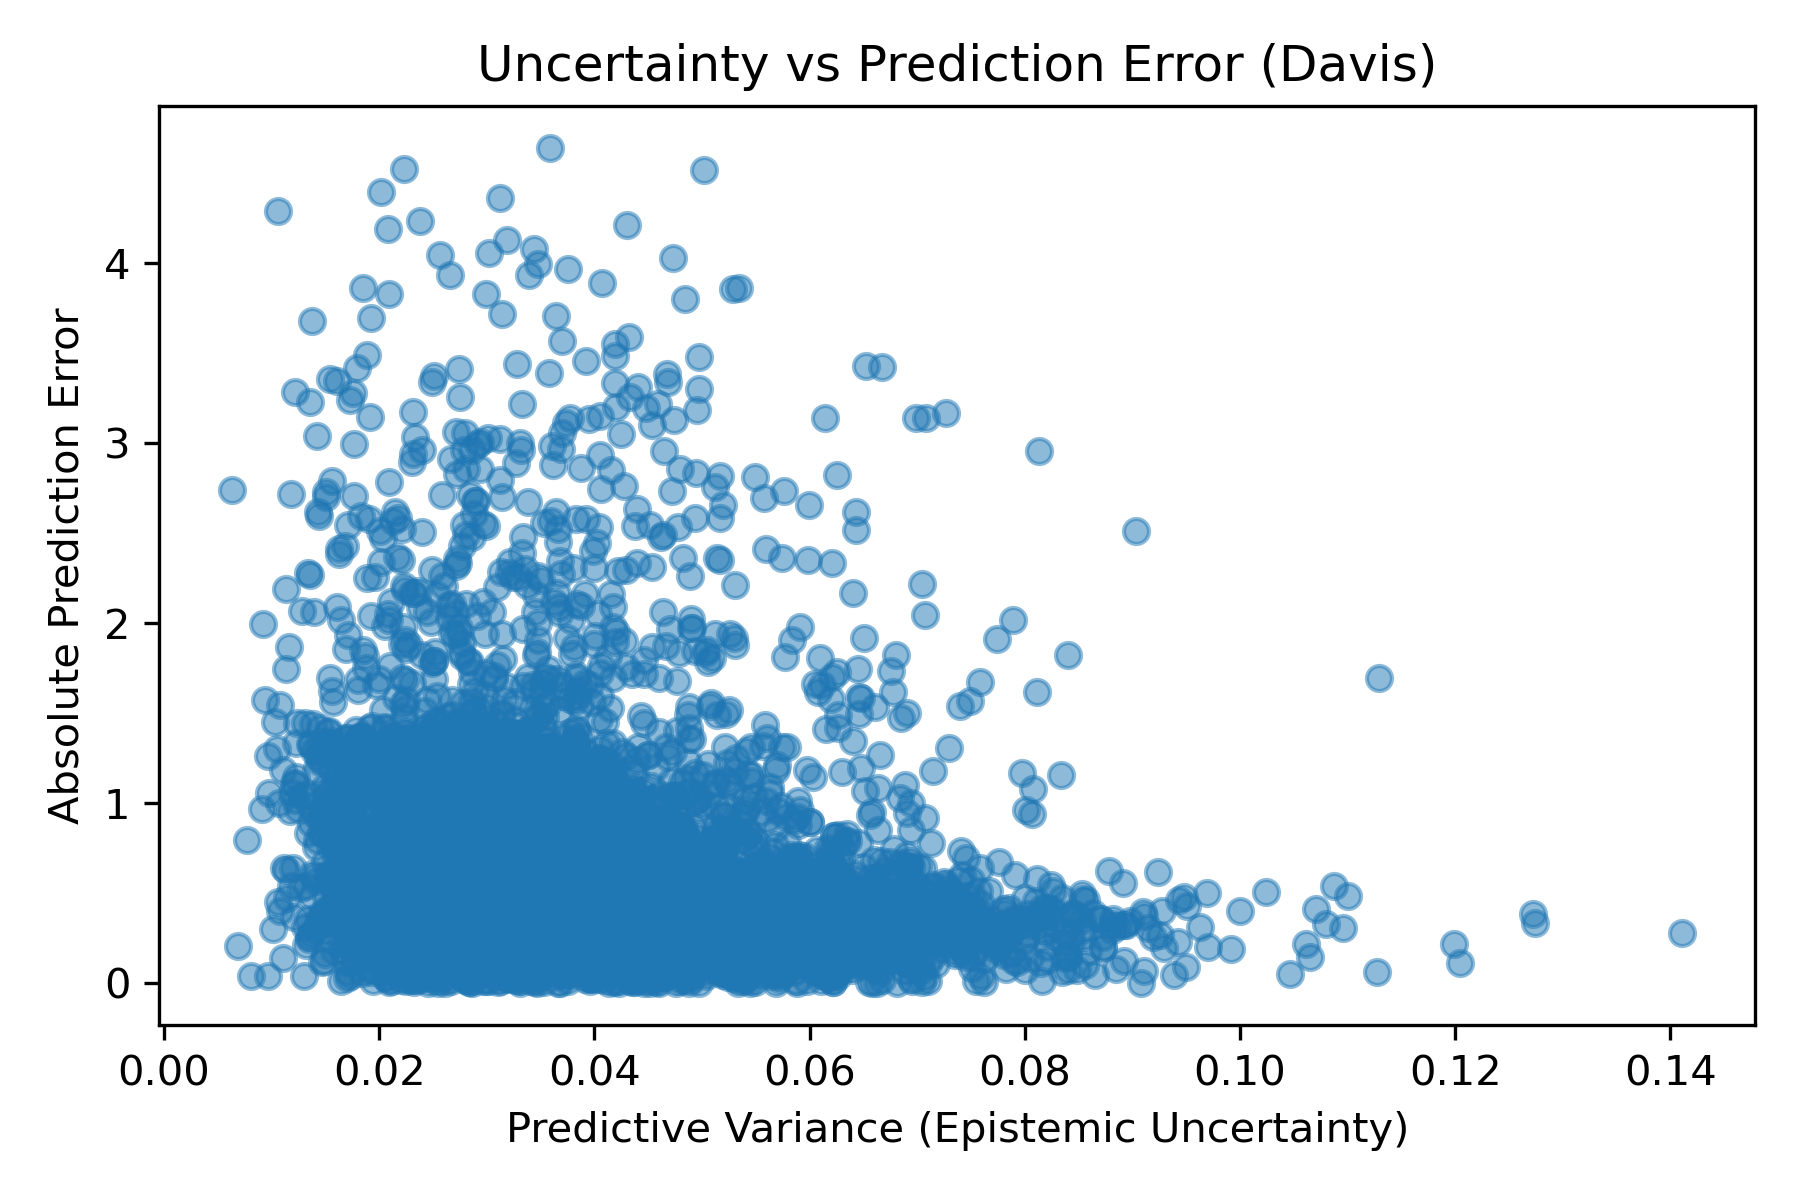
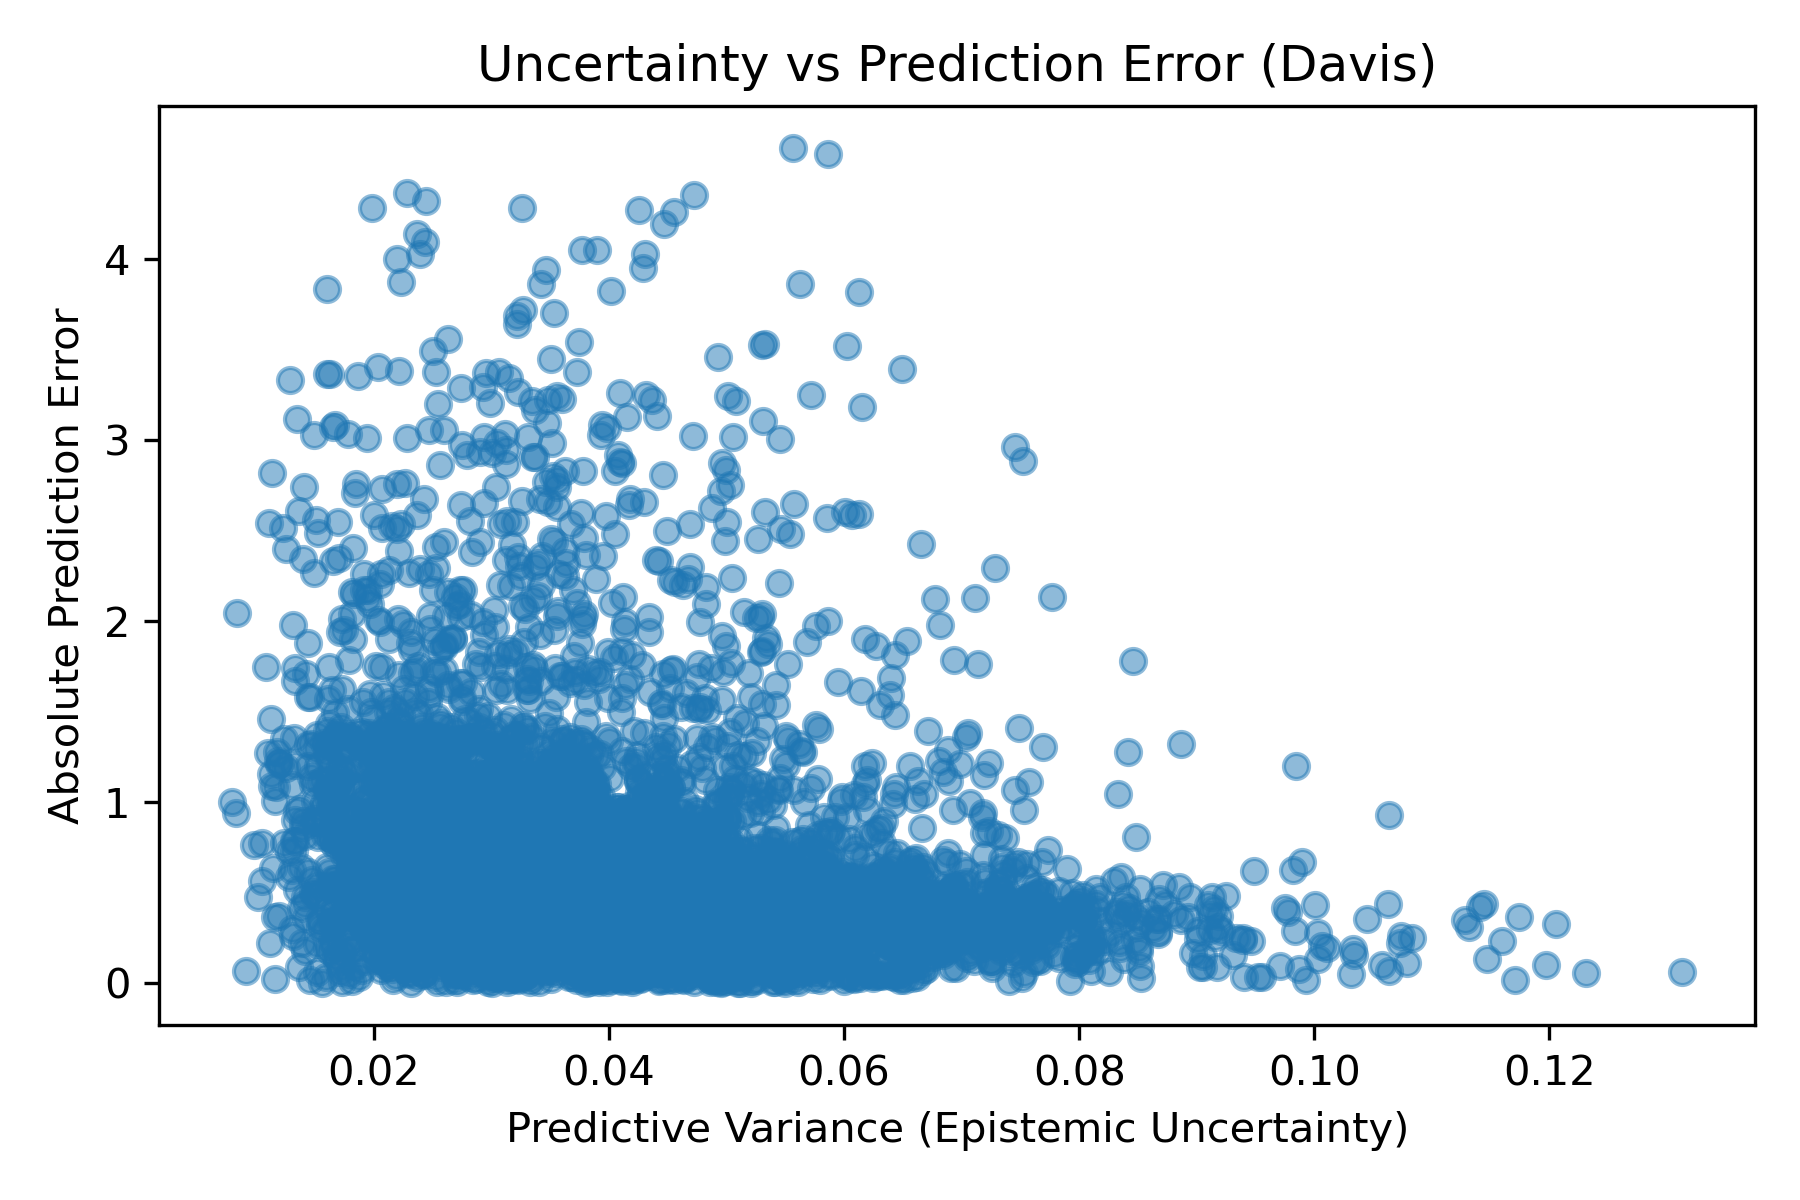
Added uncertainty analysis showing strong miscalibration (ECE, correlation)

diff --git a/experiments/test_uncertainty_mc_dropout.py b/experiments/test_uncertainty_mc_dropout.py
@@ -13,7 +13,7 @@ from src.data.cold_splits import cold_target_split
 from src.data.simple_features import build_simple_features
 from src.data.gnn_dataset import build_gnn_dataset
 from src.training.dti_gnn_model import DTIGNN
-from src.utils.metrics import rmse
+from src.utils.metrics import rmse, expected_calibration_error
 
 
 def mc_dropout_predictions(model, loader, T=20):
@@ -21,7 +21,7 @@ def mc_dropout_predictions(model, loader, T=20):
     Perform MC Dropout inference
     """
 
-    model.train()  # 🔥 enable dropout
+    model.train()  # enable dropout
 
     all_means = []
     all_vars = []
@@ -51,43 +51,40 @@ def mc_dropout_predictions(model, loader, T=20):
 def main():
 
     print("Loading Davis dataset...")
-
     drugs, proteins, affinities = load_davis("data/raw/davis")
 
     interactions = build_interaction_table(drugs, proteins, affinities)
 
-    # ✅ IMPORTANT: same split as training
+    # Same split as training
     train_df, val_df, test_df = cold_target_split(interactions)
 
     print("Building features...")
-
-    # IMPORTANT: use FULL interactions (not subset)
     _, protein_feats = build_simple_features(interactions, drugs, proteins)
 
     test_data = build_gnn_dataset(test_df, drugs, protein_feats)
     test_loader = DataLoader(test_data, batch_size=32)
 
     print("Loading trained Drug GNN model...")
-
     model = DTIGNN(len(next(iter(protein_feats.values()))))
-
-    # ✅ CRITICAL FIX: load trained weights
     model.load_state_dict(torch.load("models/drug_gnn_davis.pt"))
-
-    model.eval()  # initialize properly
+    model.eval()
 
     print("Running MC Dropout...")
-
     mean_pred, var_pred, targets = mc_dropout_predictions(model, test_loader)
-
-    print("Sample targets:", targets[:5])
-    print("Sample preds:", mean_pred[:5])
 
     error = np.abs(mean_pred - targets)
 
-    print("RMSE:", rmse(targets, mean_pred))
+    # ---- Metrics ----
+    rmse_val = rmse(targets, mean_pred)
+    ece_val = expected_calibration_error(targets, mean_pred, var_pred)
+    corr = np.corrcoef(var_pred, error)[0, 1]
 
-    # 📊 Scatter plot
+    print("\n=== Uncertainty Evaluation ===")
+    print("RMSE:", rmse_val)
+    print("ECE:", ece_val)
+    print("Uncertainty-Error Correlation:", corr)
+
+    # ---- Scatter Plot ----
     plt.figure(figsize=(6, 4))
     plt.scatter(var_pred, error, alpha=0.5)
 

diff --git a/src/utils/metrics.py b/src/utils/metrics.py
@@ -61,3 +61,33 @@ def concordance_index(y_true, y_pred):
                     h_sum += 0.5
 
     return h_sum / n if n > 0 else 0.0
+
+
+
+#import numpy as np
+
+def expected_calibration_error(y_true, y_pred, y_var, n_bins=10):
+    """
+    ECE for regression using uncertainty as inverse confidence
+    """
+
+    # Convert variance → confidence (higher var = lower confidence)
+    confidence = 1 / (1 + y_var)
+
+    errors = np.abs(y_true - y_pred)
+
+    bins = np.linspace(0, 1, n_bins + 1)
+    ece = 0.0
+
+    for i in range(n_bins):
+        mask = (confidence >= bins[i]) & (confidence < bins[i + 1])
+
+        if np.sum(mask) == 0:
+            continue
+
+        avg_conf = np.mean(confidence[mask])
+        avg_err = np.mean(errors[mask])
+
+        ece += np.abs(avg_conf - (1 - avg_err)) * np.sum(mask) / len(y_true)
+
+    return ece
